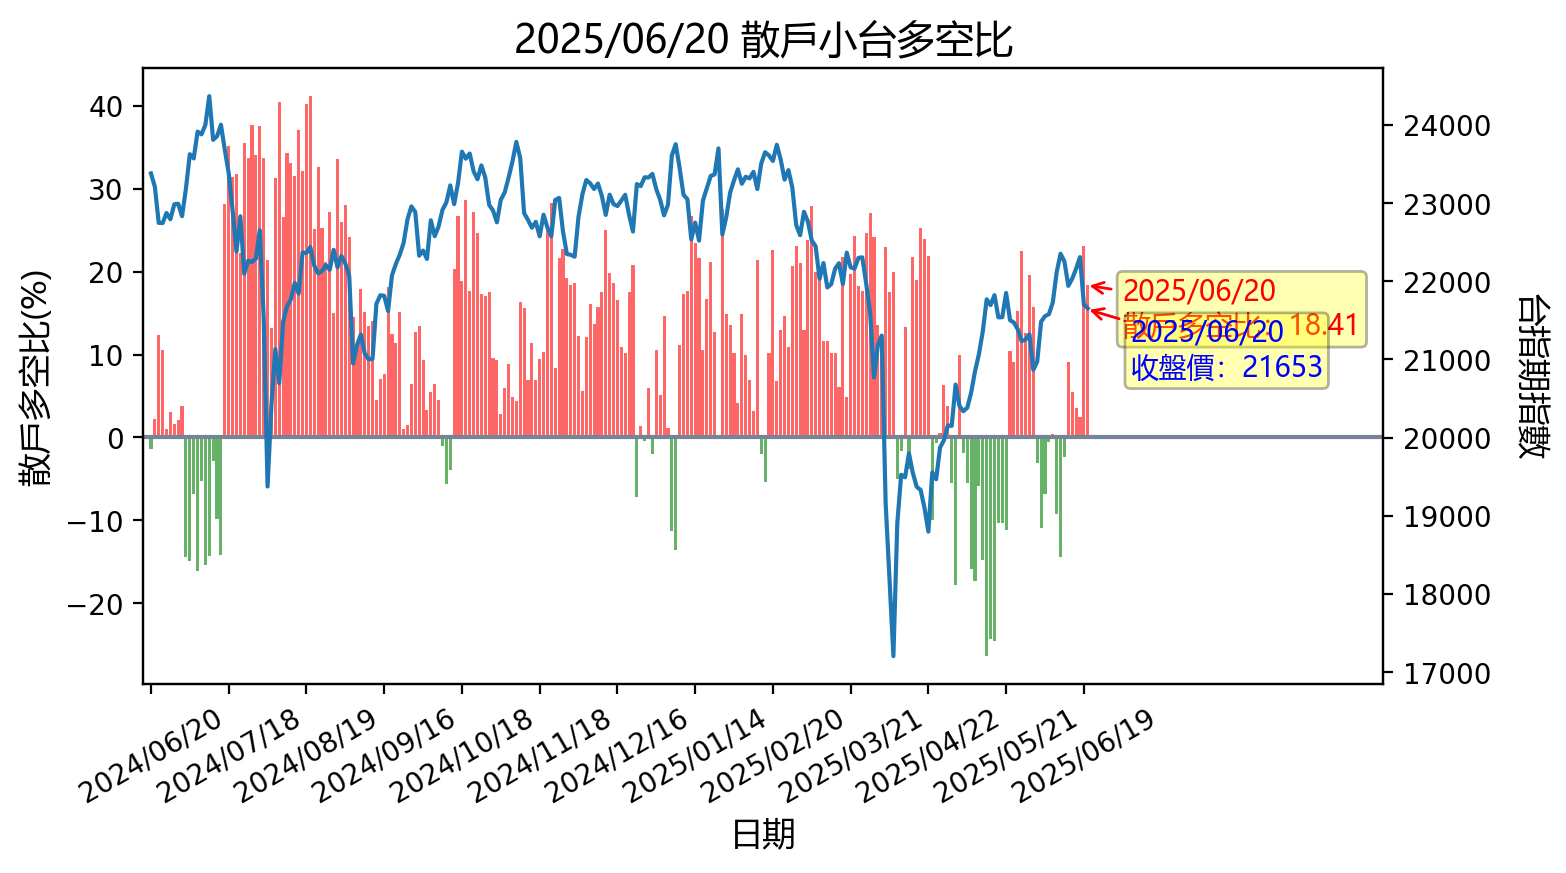
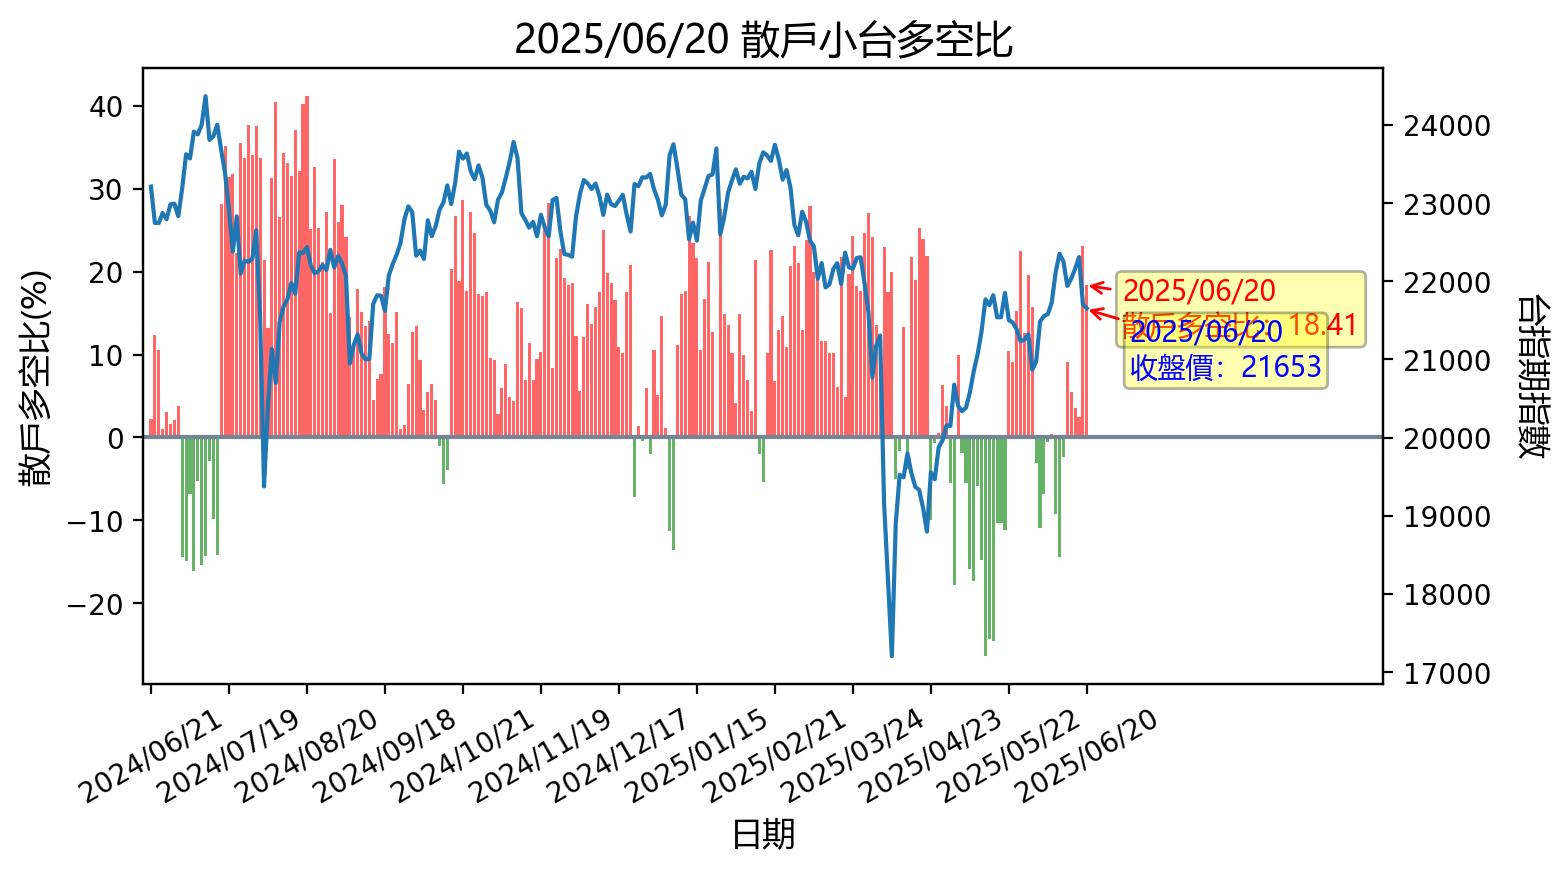
更新時間: Sat Jun 21 16:38:04 CST 2025

Changed region(s): [[0.092, 0.1237, 0.8889, 0.7423], [0.1533, 0.8041, 0.7356, 0.9278], [0.1226, 0.8041, 0.1533, 0.8351]]

diff --git a/README.md b/README.md
@@ -1,12 +1,12 @@
-## 20250620 台指期「預估換倉成本」
+## 20250621 台指期「預估換倉成本」
 ![](images/txfcost.png)
 
-## 20250620 台指期「散戶小台多空比」
+## 20250621 台指期「散戶小台多空比」
 ![](images/bbiri.png)
 
-## 20250620 台指選擇權「Put/Call Ratios」
+## 20250621 台指選擇權「Put/Call Ratios」
 ![](images/pcratio.png)
 
-## 20250620 台指期「大額交易人」
+## 20250621 台指期「大額交易人」
 ![](images/blocktrade.png)
 
